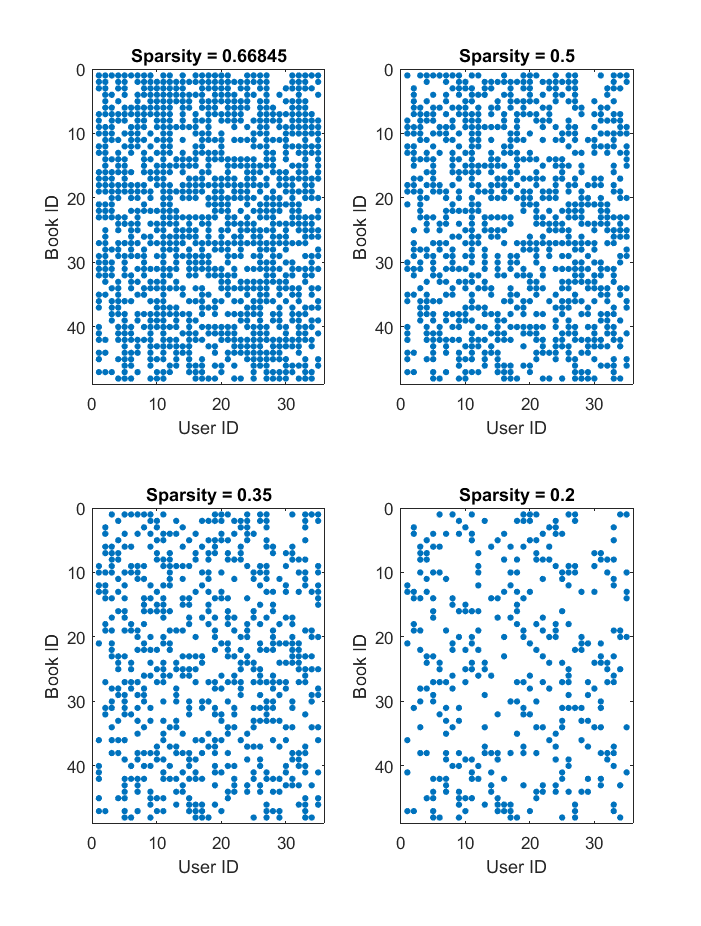
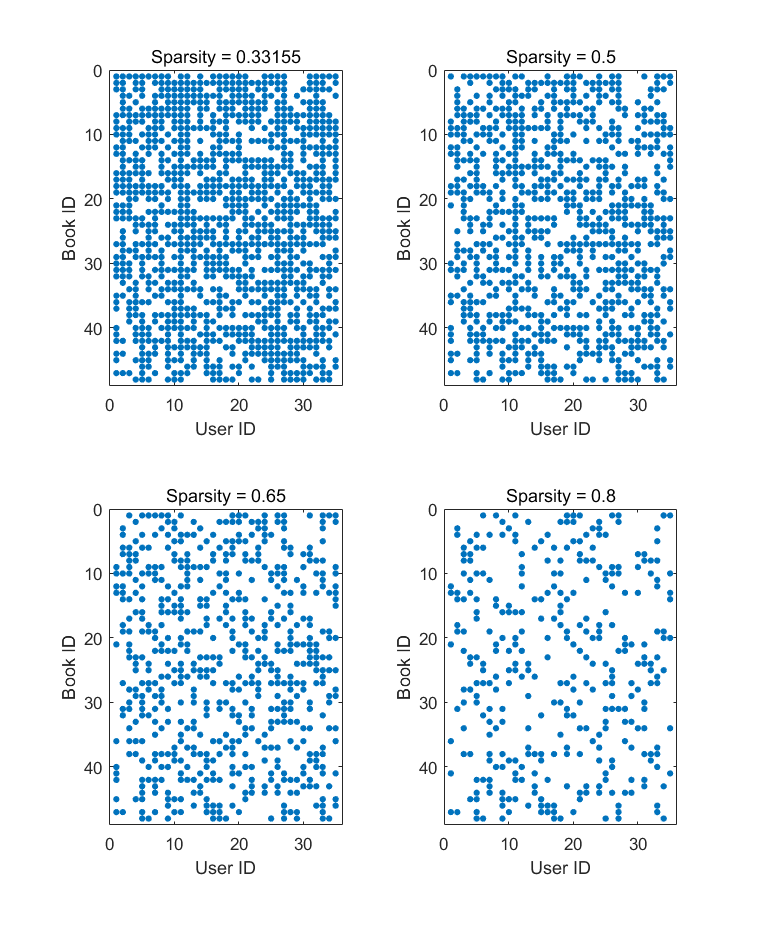
update show_smalldataset.m

diff --git a/Data processing & show/show_small_dataset.m b/Data processing & show/show_small_dataset.m
@@ -8,7 +8,7 @@ for i = 1:3:10
     [book_num, user_num] = size(cellofmatrix{i});
     subplot(2,2,j)
     spy(cellofmatrix{i})
-    tmp = sum(sum(cellofmatrix{i}>0))/book_num/user_num;
+    tmp = 1 - sum(sum(cellofmatrix{i}>0))/book_num/user_num;
     title(['Sparsity = ', num2str(tmp)])
     xlabel('User ID')
     ylabel('Book ID')
